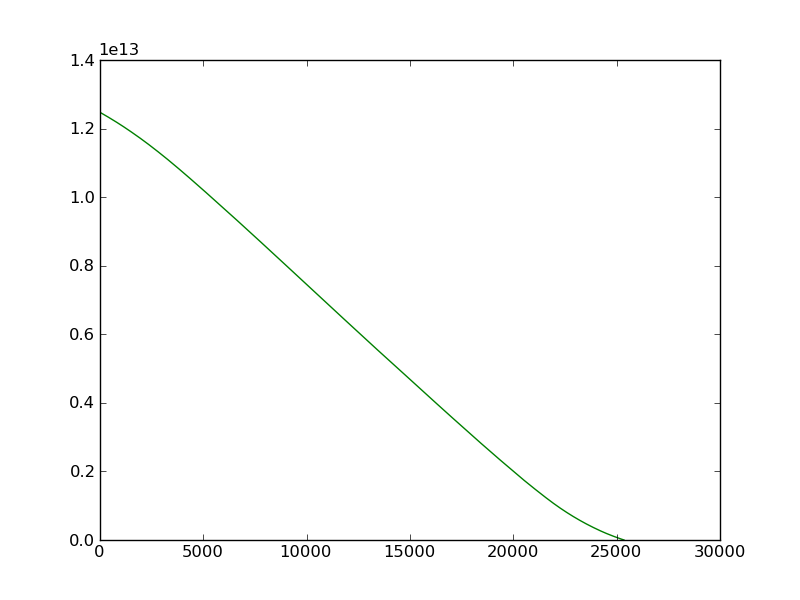
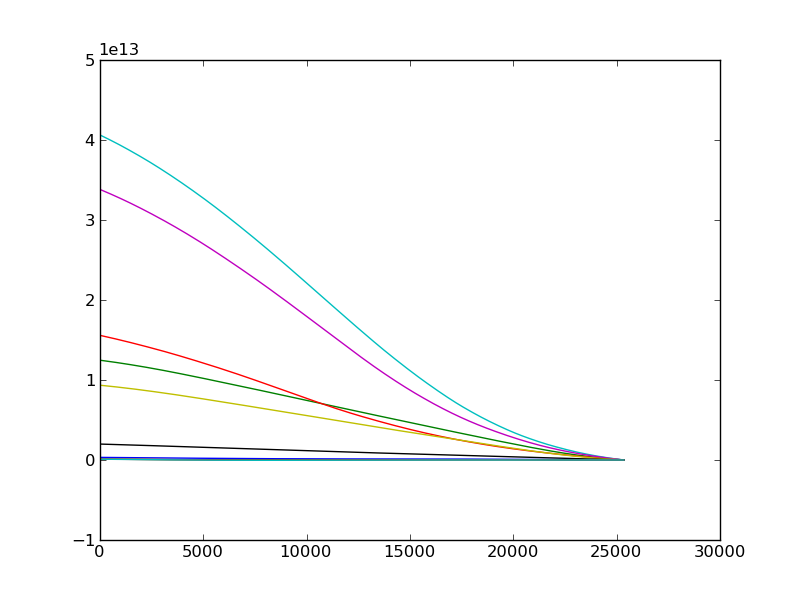
a

diff --git a/galsim_iter.py b/galsim_iter.py
@@ -1002,6 +1002,15 @@ class GalsimKernel:
 
         P.figure(9)
         P.plot(self.autocorr(sn_flux_history[1]))
+        P.plot(self.autocorr(sn_flux_history[2]))
+        P.plot(self.autocorr(sn_flux_history[3]))
+        P.plot(self.autocorr(sn_flux_history[4]))
+        P.plot(self.autocorr(sn_flux_history[5]))
+        P.plot(self.autocorr(sn_flux_history[6]))
+        P.plot(self.autocorr(sn_flux_history[7]))
+        P.plot(self.autocorr(sn_flux_history[8]))
+        P.plot(self.autocorr(sn_flux_history[9]))
+        P.plot(self.autocorr(sn_flux_history[10]))
         out = os.path.join(self.outdir,'autocorr.png')
         P.savefig(out)
 
